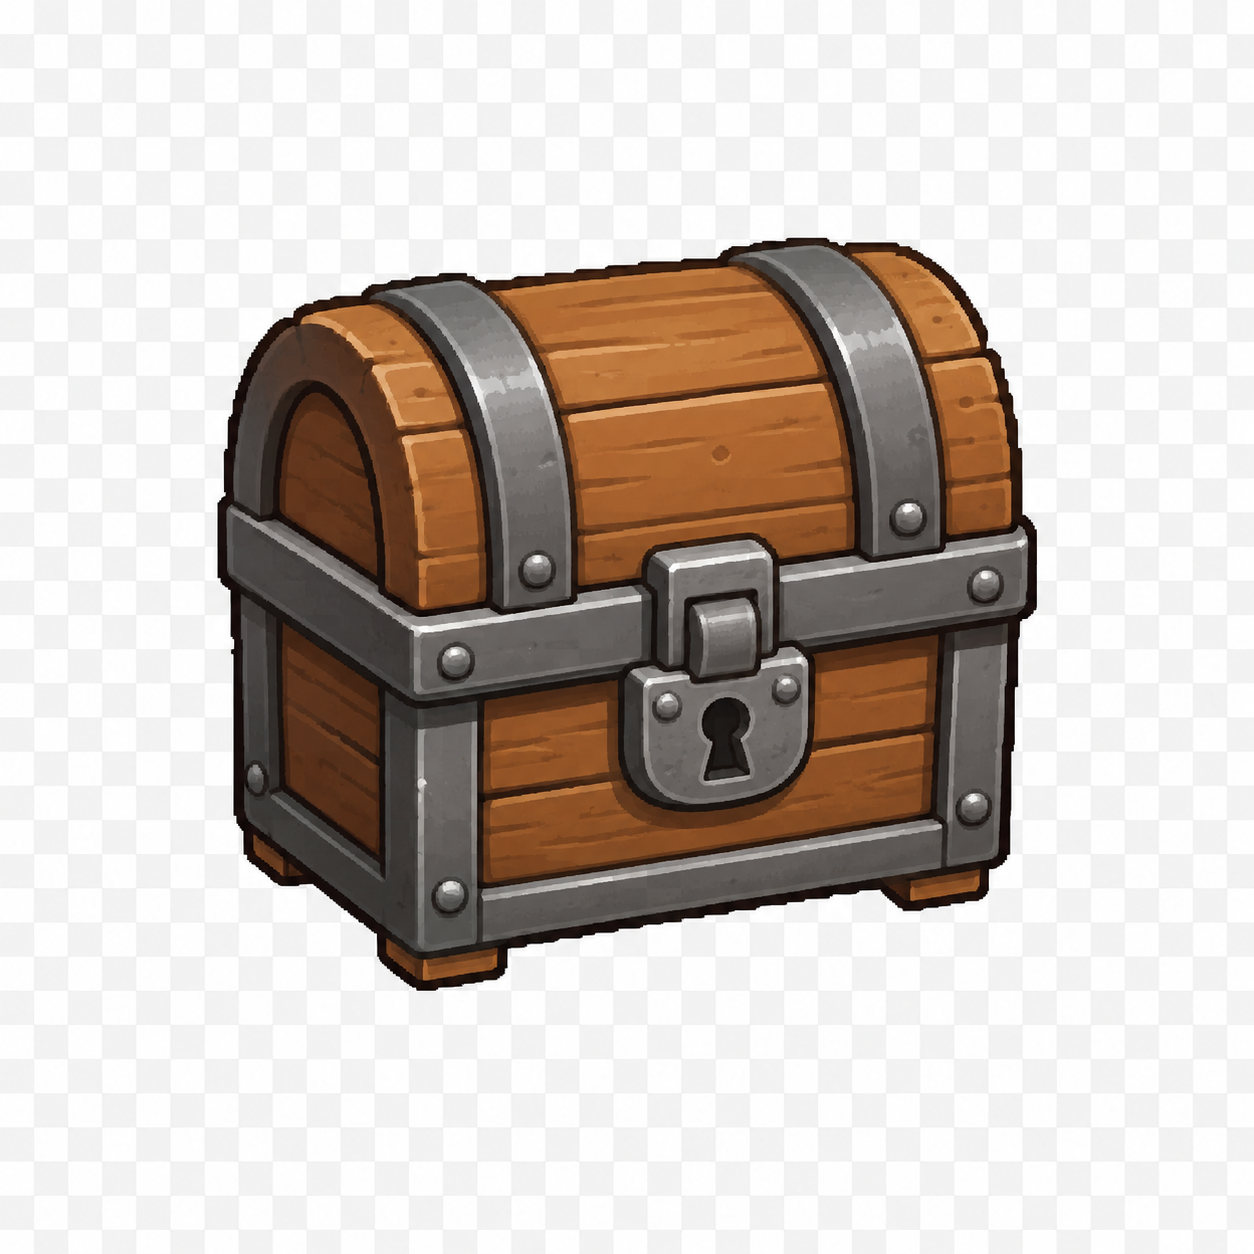
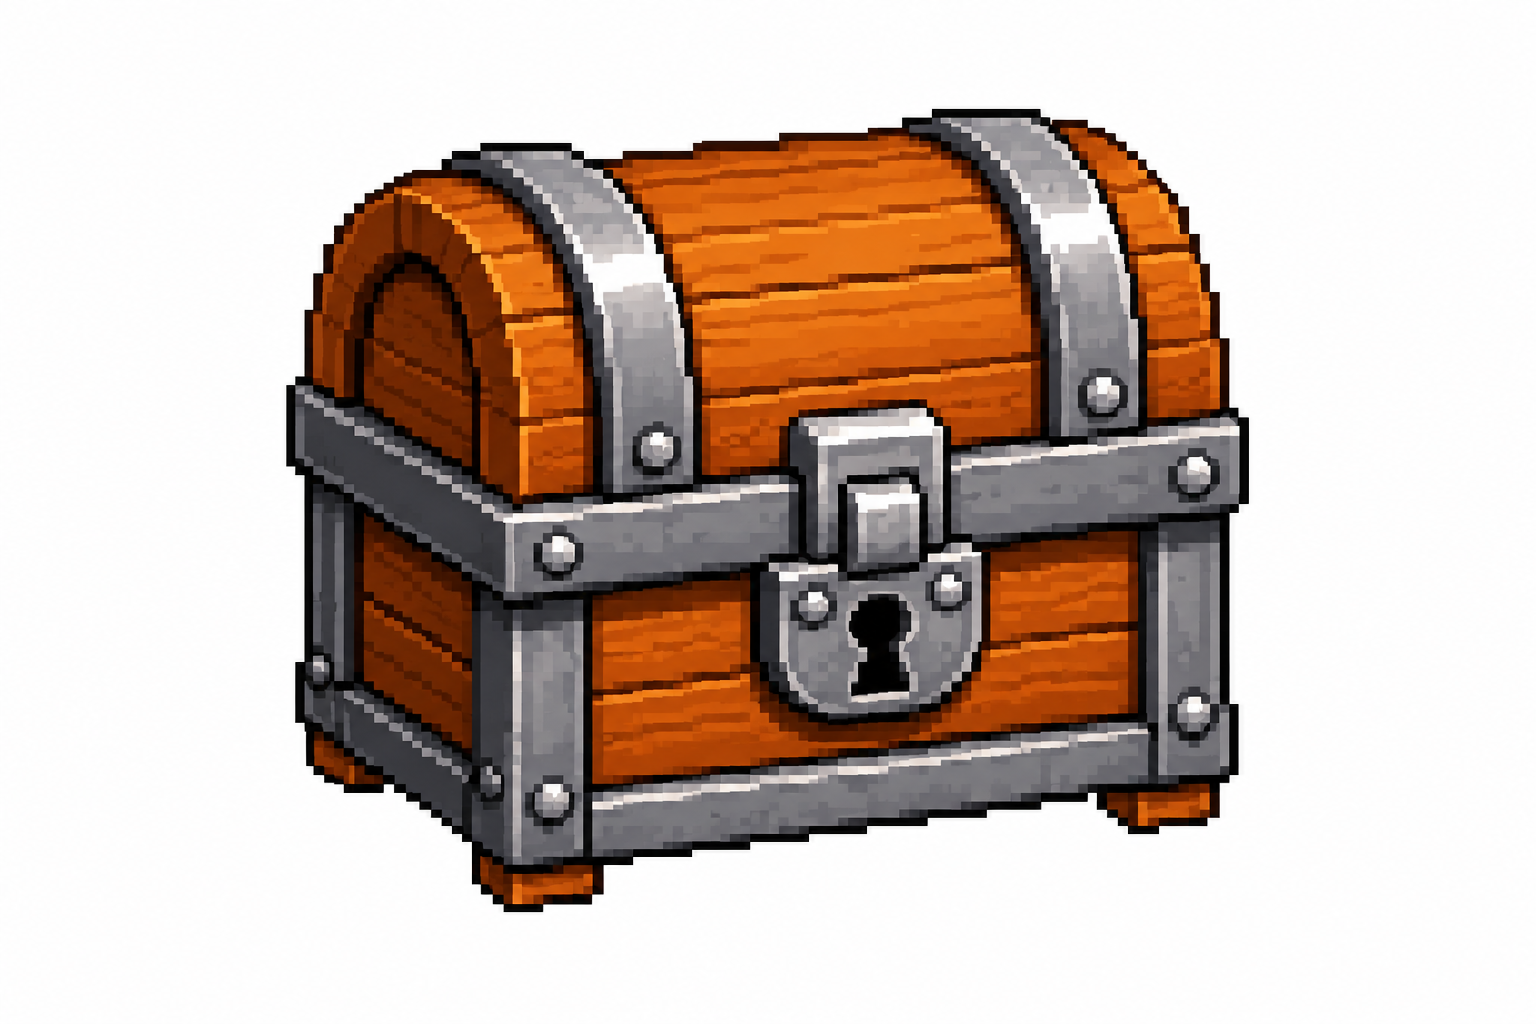
Add Meadow chispas, Fredoka font, and fix Thomas edge disappearance
- Add 12 individual Meadow chispa creature PNGs (one per vocab word),
  processed from scripts/Chispa designs/Meadow/ with model→vocab ID mapping
- Switch game font to Fredoka (all UI) + Bubblegum Sans (chispa word label)
- Move chispa word label below creature in pal book (instead of belly overlay)
- Make Thomas preview sticky in customizer so skin changes are visible while scrolling
- Fix Thomas disappearing at island edges: camera.skipCull = true prevents
  Phaser's cull from incorrectly excluding sprites whose displaySize (120px)
  diverges from texture size (1254px)
- Add isle_* decoration assets to public/assets (island growth milestones)
- Update process-characters.mjs to handle per-chispa source files

diff --git a/src/styles.css b/src/styles.css
@@ -10,7 +10,7 @@
   --shadow: 0 5px 0 var(--border);
   --px: 8px;           /* standard pixel-art corner radius */
   color: var(--ink);
-  font-family: "Baloo 2", "Quicksand", "Nunito", "Segoe UI Rounded", "Avenir Next", system-ui, sans-serif;
+  font-family: "Fredoka", "Nunito", system-ui, sans-serif;
   font-synthesis: none;
   -webkit-tap-highlight-color: transparent;
   -webkit-user-select: none;
@@ -444,31 +444,27 @@ body {
 
 /* Chispa card inside each pal-cell */
 .chispa-card {
-  position: relative;
-  width: 72px;
-  height: 80px;
-  flex-shrink: 0;
+  display: flex;
+  flex-direction: column;
+  align-items: center;
+  gap: 3px;
 }
 
 .chispa-img {
-  width: 72px;
-  height: 72px;
+  width: 62px;
+  height: 62px;
   object-fit: contain;
   display: block;
 }
 
-/* Word printed on the belly patch */
+/* Word label below the creature */
 .chispa-belly {
-  position: absolute;
-  top: 60%;
-  left: 50%;
-  transform: translateX(-50%);
-  font-size: 9px;
-  font-weight: 900;
+  font-family: "Bubblegum Sans", "Fredoka", sans-serif;
+  font-size: 11px;
+  font-weight: 400;
   color: #3a1800;
   white-space: nowrap;
-  text-shadow: 0 1px 0 rgba(255, 255, 255, 0.85);
-  letter-spacing: -0.3px;
+  text-align: center;
 }
 
 .pal-cell.locked .chispa-img {
@@ -477,7 +473,6 @@ body {
 
 .pal-cell.locked .chispa-belly {
   color: #aaa;
-  text-shadow: none;
 }
 
 /* ====================== Lumi Says overlay ====================== */
@@ -575,6 +570,9 @@ body {
 .customizer-left {
   flex: 0 0 130px;
   text-align: center;
+  position: sticky;
+  top: 0;
+  align-self: flex-start;
 }
 
 .customizer-right {

diff --git a/index.html b/index.html
@@ -8,6 +8,9 @@
     <meta name="mobile-web-app-capable" content="yes" />
     <meta name="apple-mobile-web-app-status-bar-style" content="default" />
     <link rel="manifest" href="manifest.webmanifest" />
+    <link rel="preconnect" href="https://fonts.googleapis.com" />
+    <link rel="preconnect" href="https://fonts.gstatic.com" crossorigin />
+    <link href="https://fonts.googleapis.com/css2?family=Bubblegum+Sans&family=Fredoka:wght@300..700&display=swap" rel="stylesheet" />
     <title>Isla Monstruo — Spanish Monster Island</title>
   </head>
   <body>
@@ -82,19 +85,25 @@
 
       <!-- ============================ Customizer ============================ -->
       <div id="customizer" class="overlay hidden">
-        <div class="panel">
+        <div class="panel panel--wide">
           <header class="panel__head">
             <h2>Color de Thomas</h2>
             <button class="icon-close" id="customizer-close" type="button" aria-label="Close">✕</button>
           </header>
-          <div class="customizer-preview">
-            <img id="customizer-thomas" src="" alt="Thomas" class="customizer-thomas-img" />
+          <div class="customizer-body">
+            <div class="customizer-left">
+              <div class="customizer-preview">
+                <img id="customizer-thomas" src="" alt="Thomas" class="customizer-thomas-img" />
+              </div>
+              <p class="customizer-balance">🪙 <span id="customizer-coins">0</span> monedas</p>
+            </div>
+            <div class="customizer-right">
+              <p class="customizer-section-label">Colores gratis</p>
+              <div id="customizer-free" class="color-orbs"></div>
+              <p class="customizer-section-label customizer-section-label--earned">Gana más jugando 🔒</p>
+              <div id="customizer-earned" class="color-orbs"></div>
+            </div>
           </div>
-          <p class="customizer-balance">🪙 <span id="customizer-coins">0</span> monedas</p>
-          <p class="customizer-section-label">Colores gratis</p>
-          <div id="customizer-free" class="color-orbs"></div>
-          <p class="customizer-section-label customizer-section-label--earned">Gana más jugando 🔒</p>
-          <div id="customizer-earned" class="color-orbs"></div>
           <div id="customizer-confirm" class="customizer-confirm hidden">
             <button id="customizer-cancel-btn" class="confirm-cancel" type="button">✕ Cancelar</button>
             <button id="customizer-buy-btn" class="confirm-buy" type="button">¡Comprar! <span id="customizer-buy-cost">10</span> 🪙</button>

diff --git a/src/game/MainScene.ts b/src/game/MainScene.ts
@@ -159,8 +159,8 @@ export class MainScene extends Phaser.Scene {
     this.load.image('palm', 'assets/palm_tree_alpha.png');
     // Scene background
     this.load.image('bg', 'assets/bg.png');
-    // Chispa collectible creature
-    this.load.image('chispa', 'assets/chispa_base.png');
+    // Chispa collectible creatures — one per vocab word
+    MEADOW_VOCAB.forEach(v => this.load.image(`chispa_${v.id}`, `assets/chispa_${v.id}.png`));
     // Thomas — one hand-crafted skin per choice (free + all earned)
     MainScene.ALL_SKIN_IDS.forEach(id => this.load.image(`thomas_${id}`, `assets/thomas_${id}.png`));
     // Lumi — colored NPC sprite + portrait for start screen
@@ -240,6 +240,11 @@ export class MainScene extends Phaser.Scene {
     this.ui.buildCustomizer(this.progress.unlockedColors, this.progress.settings.playerColorId, this.progress.coins);
     this.ui.updateCoins(this.progress.coins);
 
+    // Disable camera culling — the scene fits entirely in the 800×600 viewport so
+    // culling has no benefit, and Phaser's cull incorrectly excludes edge-position
+    // sprites when displaySize (120px) diverges from texture size (1254px) (issue #20).
+    this.cameras.main.skipCull = true;
+
     // ── Scene background image (depth -1) ────────────────────────────────
     // 1448×1086 source → exact 4:3 match for 800×600 canvas
     this.add.image(400, 300, 'bg').setDisplaySize(800, 600).setDepth(-1);
@@ -312,7 +317,7 @@ export class MainScene extends Phaser.Scene {
     this.speechBubbleGfx = this.add.graphics();
     this.speechBubbleText = this.add.text(0, -98, '', {
       fontSize: '22px',
-      fontFamily: '"Nunito", "Quicksand", "Arial Rounded MT Bold", system-ui, sans-serif',
+      fontFamily: '"Fredoka", system-ui, sans-serif',
       color: '#5a3200',
       fontStyle: 'bold',
     }).setOrigin(0.5, 0.5);
@@ -544,6 +549,7 @@ export class MainScene extends Phaser.Scene {
       const bobY = this.playerY + moveBob + idleBob;
       this.playerImg.x = this.playerX;
       this.playerImg.y = bobY;
+      if (!this.playerImg.visible) this.playerImg.setVisible(true);
       this.playerShadow.setPosition(this.playerX, bobY + 65);
     }
 
@@ -883,7 +889,7 @@ export class MainScene extends Phaser.Scene {
     this.ui.updateCoins(this.progress.coins);
     const txt = this.add.text(this.playerX, this.playerY - 80, `+${whole} 🪙`, {
       fontSize: '26px',
-      fontFamily: '"Nunito", "Quicksand", system-ui, sans-serif',
+      fontFamily: '"Fredoka", system-ui, sans-serif',
       color: '#ffd700',
       fontStyle: 'bold',
       stroke: '#3a1800',

diff --git a/src/systems/GameUI.ts b/src/systems/GameUI.ts
@@ -10,7 +10,7 @@ import type { QuestKind } from '../content/quests';
 import { QUEST_ICON } from '../content/quests';
 import type { ParentSummary } from './ProgressStore';
 
-const CHISPA_IMG = 'assets/chispa_base.png';
+const chispaImg = (id: string) => `assets/chispa_${id}.png`;
 
 // ── Color / skin definitions — single source of truth for the customizer ──────
 const FREE_COLORS = [
@@ -315,7 +315,7 @@ export class GameUI {
       cell.type = 'button';
       cell.innerHTML = `
         <div class="chispa-card">
-          <img src="${CHISPA_IMG}" class="chispa-img" alt="" />
+          <img src="${chispaImg(v.id)}" class="chispa-img" alt="" />
           <span class="chispa-belly">${collected ? v.es : '?'}</span>
         </div>`;
       if (collected) {

diff --git a/src/systems/AudioClips.ts b/src/systems/AudioClips.ts
@@ -56,7 +56,7 @@ export class AudioClips {
     return new Promise((resolve) => {
       let el = this.elements.get(id);
       if (!el) {
-        el = new Audio(`/audio/${id}.mp3`);
+        el = new Audio(`/audio/${id}.m4a`);
         this.elements.set(id, el);
       }
       el.currentTime = 0;